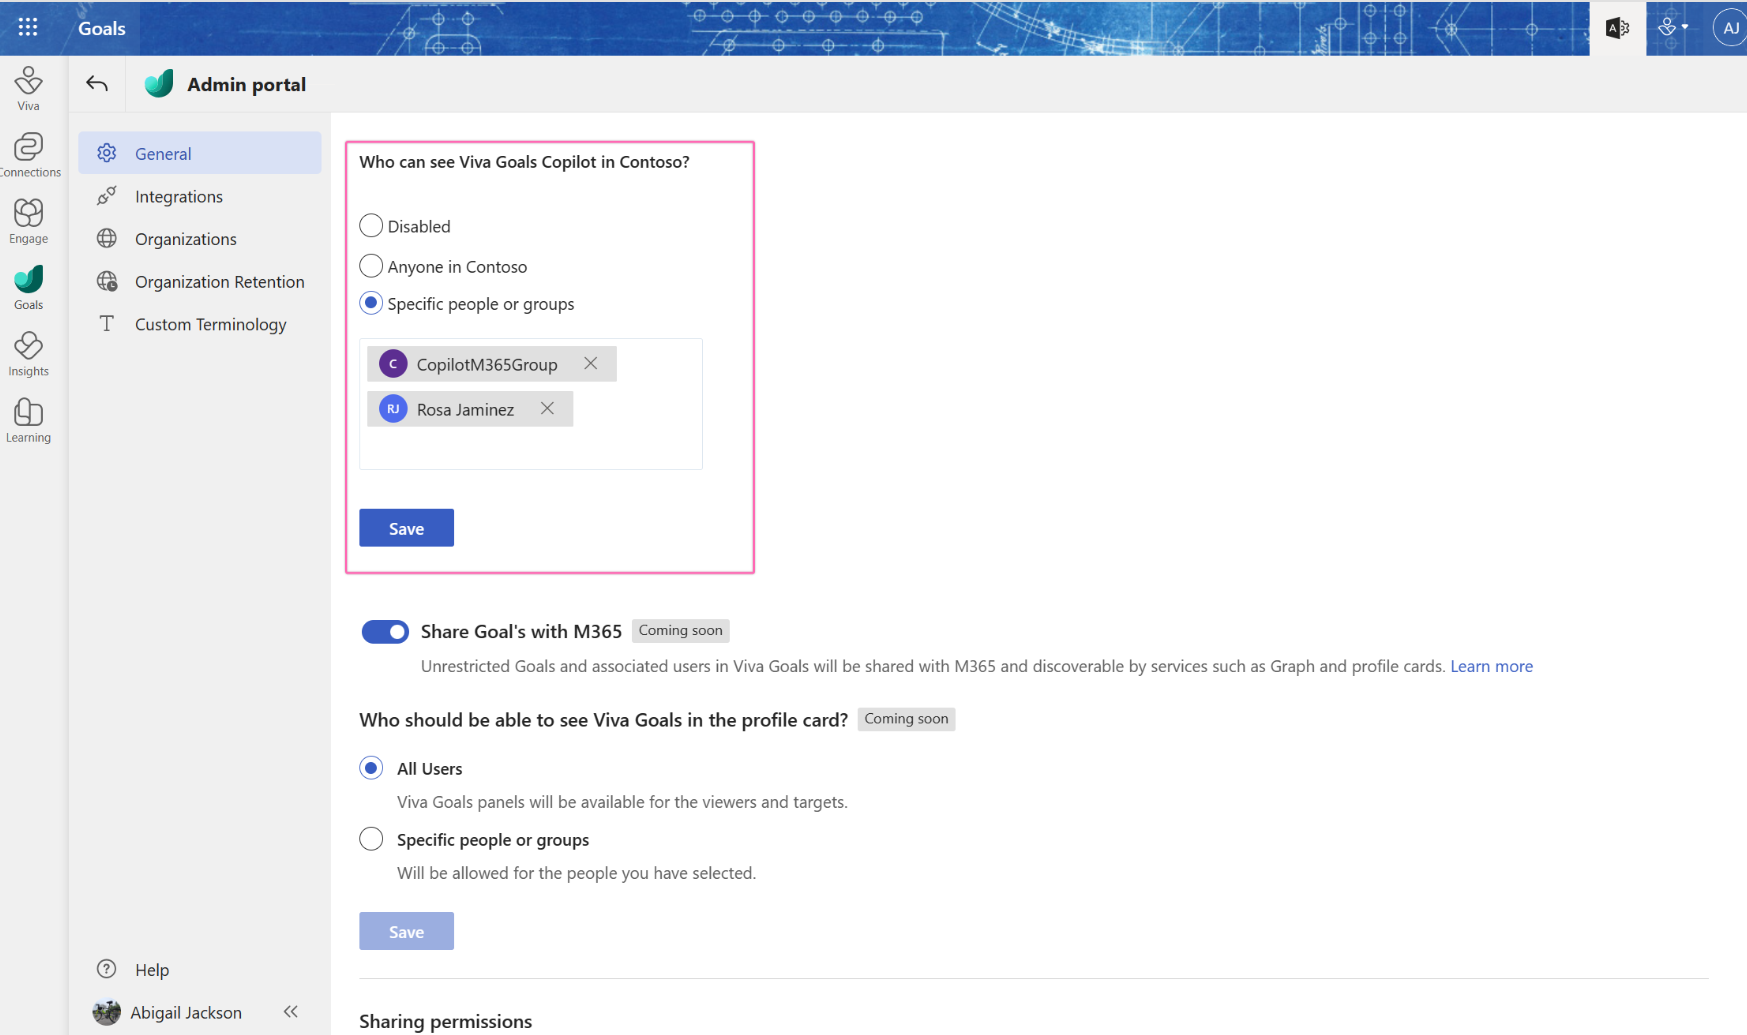
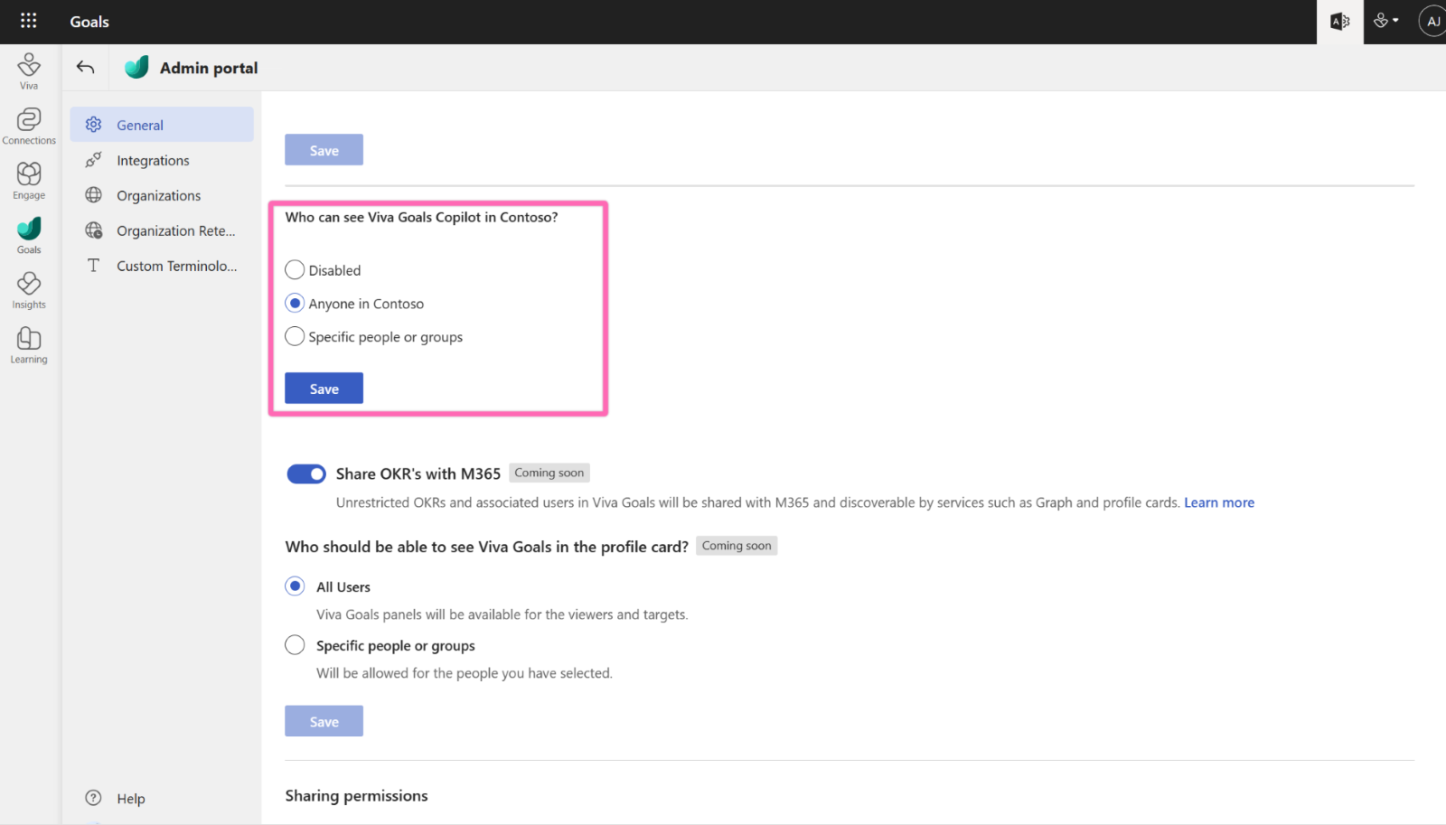
Updated copilot-intro
Text, images, and Related section.

Changed region(s): [[0.0, 0.0, 1.0, 1.0], [0.0311, 0.9091, 0.1556, 1.0]]

diff --git a/Viva/goals/copilot-intro.md b/Viva/goals/copilot-intro.md
@@ -1,6 +1,6 @@
 ---
-ms.date: 01/04/2024
-title: Introduction to Copilot in Viva Goals
+ms.date: 03/07/2024
+title: Copilot in Viva Goals
 ms.reviewer: 
 ms.author: v-nstockwell
 author: DefinitelyNotNitza
@@ -22,14 +22,34 @@ search.appverid:
 description: "Learn how to use Copilot in Viva Goals to create, share, manage, and summarize organizational goals."
 ---
 
-# Deploy Microsoft Copilot in Viva Goals
+# Copilot in Viva Goals
 
 Microsoft Copilot in Viva Goals lets you leverage next-gen AI to create, share, manage, and summarize your organizational goals quicker and easier than ever. It offers in-app guidance for creating and refining goals, providing a productivity boost to users regardless of their familiarity with whatever goals framework their team follows.
 
-## Prerequisites
+## Licensing requirements
 
-During the preview, the Copilot feature in Viva Goals will be disabled by default. In order for users to access Copilot in Viva Goals, the organization's tenant admin must enable Copilot in Viva Goals from the Admin portal. Tenant admins have complete control over the rollout of Copilot in Viva Goals within their organization. They can also decide which users or security groups are allowed to access Copilot. Tenant admins can access these and other Copilot admin settings by selecting the Viva Goals admin center icon in the top right and scrolling to **Who can see Viva Goals in *tenant*?** under the **General** tab.
+Customers with a *Viva Suite* or *Viva Goals Standalone* license, or a trial version of either, can activate Copilot in the Viva Goals admin center.
 
-![Screenshot that shows a view of a product team's OKRs and emphasizes the Admin portal icon.](..\media\goals\copilot\admin-portal.png)
+## Configure Copilot in Viva Goals
 
-![Screenshot that shows the Admin portal and emphasizes the setting for deciding who can see Viva Goals Copilot in the tenant.](..\media\goals\copilot\who-can-see-copilot.png)
+Microsoft 365 Global administrators have complete control over the rollout of Copilot in Viva Goals within their organization. They can access Copilot settings from the Viva Goals admin center.
+
+1. To access the Copilot settings, go to the Viva Goals [admin center](https://goals.microsoft.com/admin_center).
+
+    :::image type="content" alt-text="Screenshot that shows a view of a product team's OKRs and emphasizes the Admin portal icon." source="..\media\goals\copilot\admin-portal.png" lightbox="..\media\goals\copilot\admin-portal.png":::
+
+1. Go to **General** > **Who can see Viva Goals Copilot in *tenant*?** and choose who you want to be able to use Copilot in your organization. The "Anyone" option is selected by default, but you can disable Copilot or enable it for specific users or groups.
+
+    :::image type="content" alt-text="Screenshot that shows the Admin portal and emphasizes the setting for deciding who can see Viva Goals Copilot in the tenant." source="..\media\goals\copilot\who-can-see-copilot.png" lightbox="..\media\goals\copilot\who-can-see-copilot.png":::
+
+1. Select **Save**.
+
+## Related
+
+- [Introduction to Microsoft Copilot in Viva Goals](https://support.microsoft.com/en-us/topic/introduction-to-microsoft-copilot-in-viva-goals-a1c1a5f1-9135-495b-969a-6a6172305ecc)
+
+- [Use Copilot in Viva Goals to create, summarize, and understand goals](https://support.microsoft.com/en-us/topic/use-copilot-in-viva-goals-to-create-summarize-and-understand-goals-11bf3612-669c-49b1-99f4-93b942ba5099)
+
+- [Copilot in Viva Goals FAQ](https://support.microsoft.com/en-us/topic/copilot-in-viva-goals-faq-31e9fbac-6214-4052-958f-9e766fd8b0e3)
+
+- [Data, privacy, and security for Copilot in Viva Goals](vg-privacy-and-security.md#copilot-in-viva-goals)
